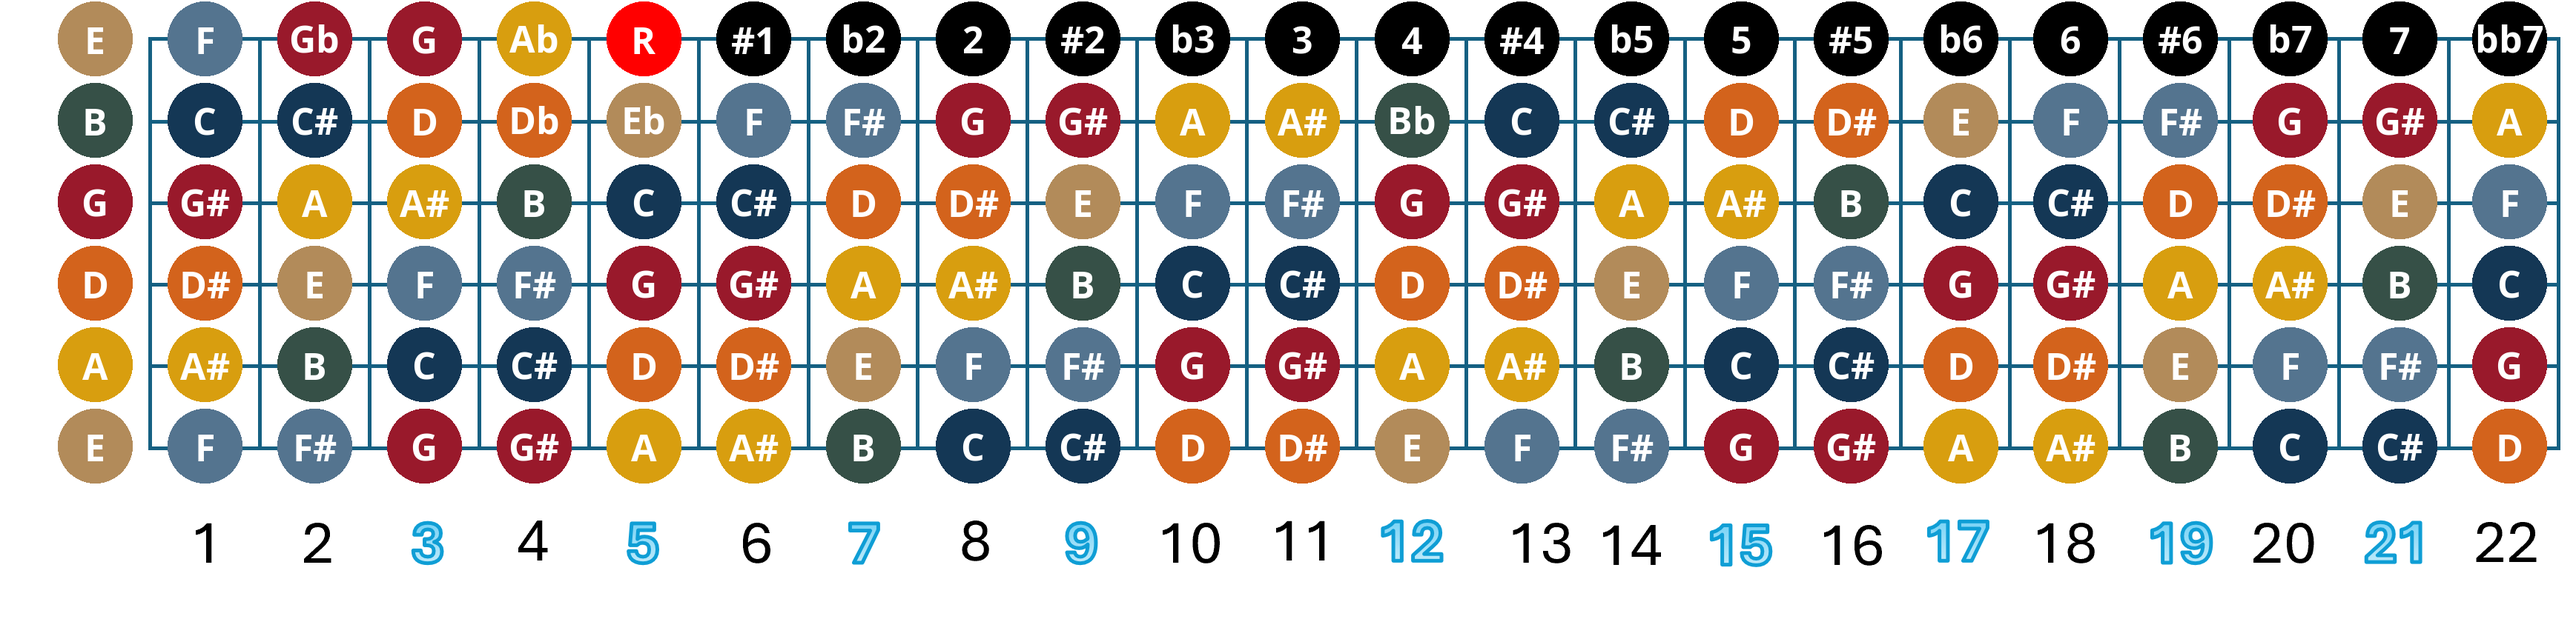
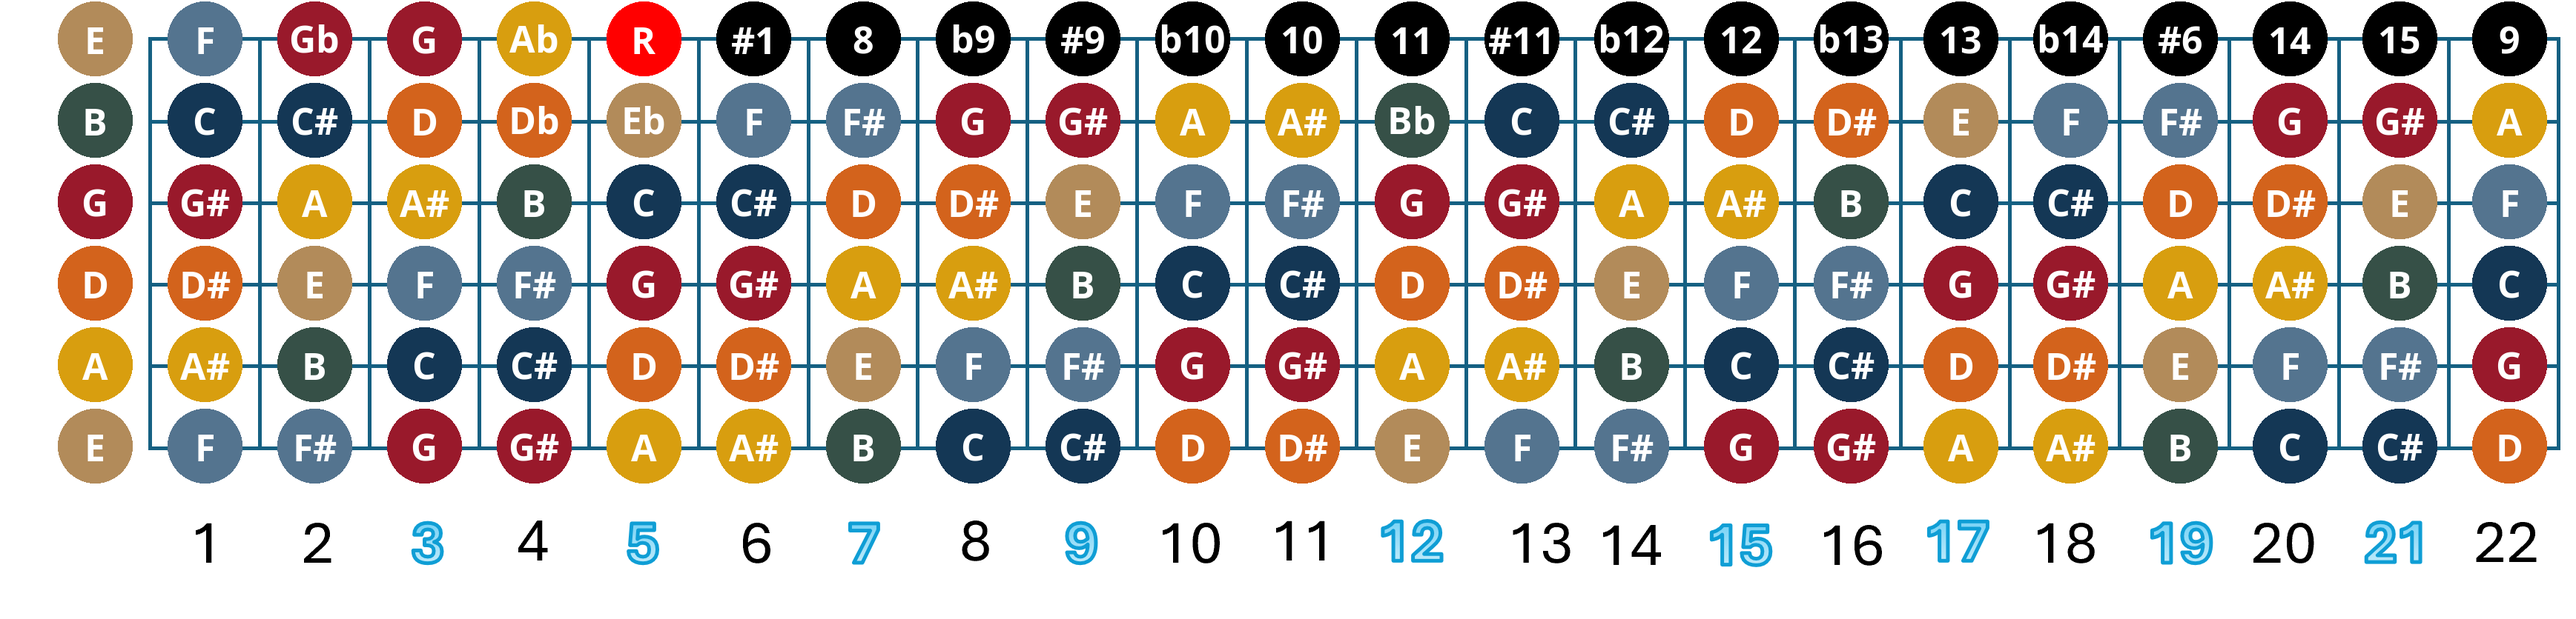
adding missing notes to support a wider range of chords

Changed region(s): [[0.3731, 0.0311, 0.8394, 0.0933], [0.8705, 0.0311, 0.9948, 0.0933], [0.3109, 0.0311, 0.342, 0.0933]]

diff --git a/fretboard_notes_no_sharp_new.py b/fretboard_notes_no_sharp_new.py
@@ -32,30 +32,30 @@ fretboard_notes = {
     ("string_1", "fret_5"): ("R", 6,  (255, 0, 0, 255)),
 
     ("string_1", "fret_6"): ("#1", 6, (0, 0, 0, 255)),
+
+    ("string_1", "fret_7"): ("8", 6, (0, 0, 0, 255)),
+    ("string_1", "fret_8"): ("b9", 6, (0, 0, 0, 255)),
+    ("string_1", "fret_9"): ("#9", 6, (0, 0, 0, 255)),
+
+    ("string_1", "fret_10"): ("b10", 6, (0, 0, 0, 255)),
+    ("string_1", "fret_11"): ("10", 6, (0, 0, 0, 255)),
     
-    ("string_1", "fret_7"): ("b2", 6, (0, 0, 0, 255)),
-    ("string_1", "fret_8"): ("2", 6, (0, 0, 0, 255)),
-    ("string_1", "fret_9"): ("#2", 6, (0, 0, 0, 255)),
-
-    ("string_1", "fret_10"): ("b3", 6, (0, 0, 0, 255)),
-    ("string_1", "fret_11"): ("3", 6, (0, 0, 0, 255)),
-    
-    ("string_1", "fret_12"): ("4", 6, (0, 0, 0, 255)),
-    ("string_1", "fret_13"): ("#4", 6, (0, 0, 0, 255)),
+    ("string_1", "fret_12"): ("11", 6, (0, 0, 0, 255)),
+    ("string_1", "fret_13"): ("#11", 6, (0, 0, 0, 255)),
 
 
-    ("string_1", "fret_14"): ("b5", 6, (0, 0, 0, 255)),
-    ("string_1", "fret_15"): ("5", 6, (0, 0, 0, 255)),
-    ("string_1", "fret_16"): ("#5", 6, (0, 0, 0, 255)),
+    ("string_1", "fret_14"): ("b12", 6, (0, 0, 0, 255)),
+    ("string_1", "fret_15"): ("12", 6, (0, 0, 0, 255)),
+    ("string_1", "fret_16"): ("b13", 6, (0, 0, 0, 255)),
 
-    ("string_1", "fret_17"): ("b6", 6, (0, 0, 0, 255)),
-    ("string_1", "fret_18"): ("6", 6, (0, 0, 0, 255)),
+    ("string_1", "fret_17"): ("13", 6, (0, 0, 0, 255)),
+    ("string_1", "fret_18"): ("b14", 6, (0, 0, 0, 255)),
     ("string_1", "fret_19"): ("#6", 6, (0, 0, 0, 255)),
 
 
-    ("string_1", "fret_20"): ("b7", 6, (0, 0, 0, 255)),
-    ("string_1", "fret_21"): ("7", 6, (0, 0, 0, 255)),
-    ("string_1", "fret_22"): ("bb7", 6, (0, 0, 0, 255)),
+    ("string_1", "fret_20"): ("14", 6, (0, 0, 0, 255)),
+    ("string_1", "fret_21"): ("15", 6, (0, 0, 0, 255)),
+    ("string_1", "fret_22"): ("9", 6, (0, 0, 0, 255)),
 
     # String 2 (B)
     ("string_2", "fret_0"): ("B", 3, (54, 80, 71, 255)),
